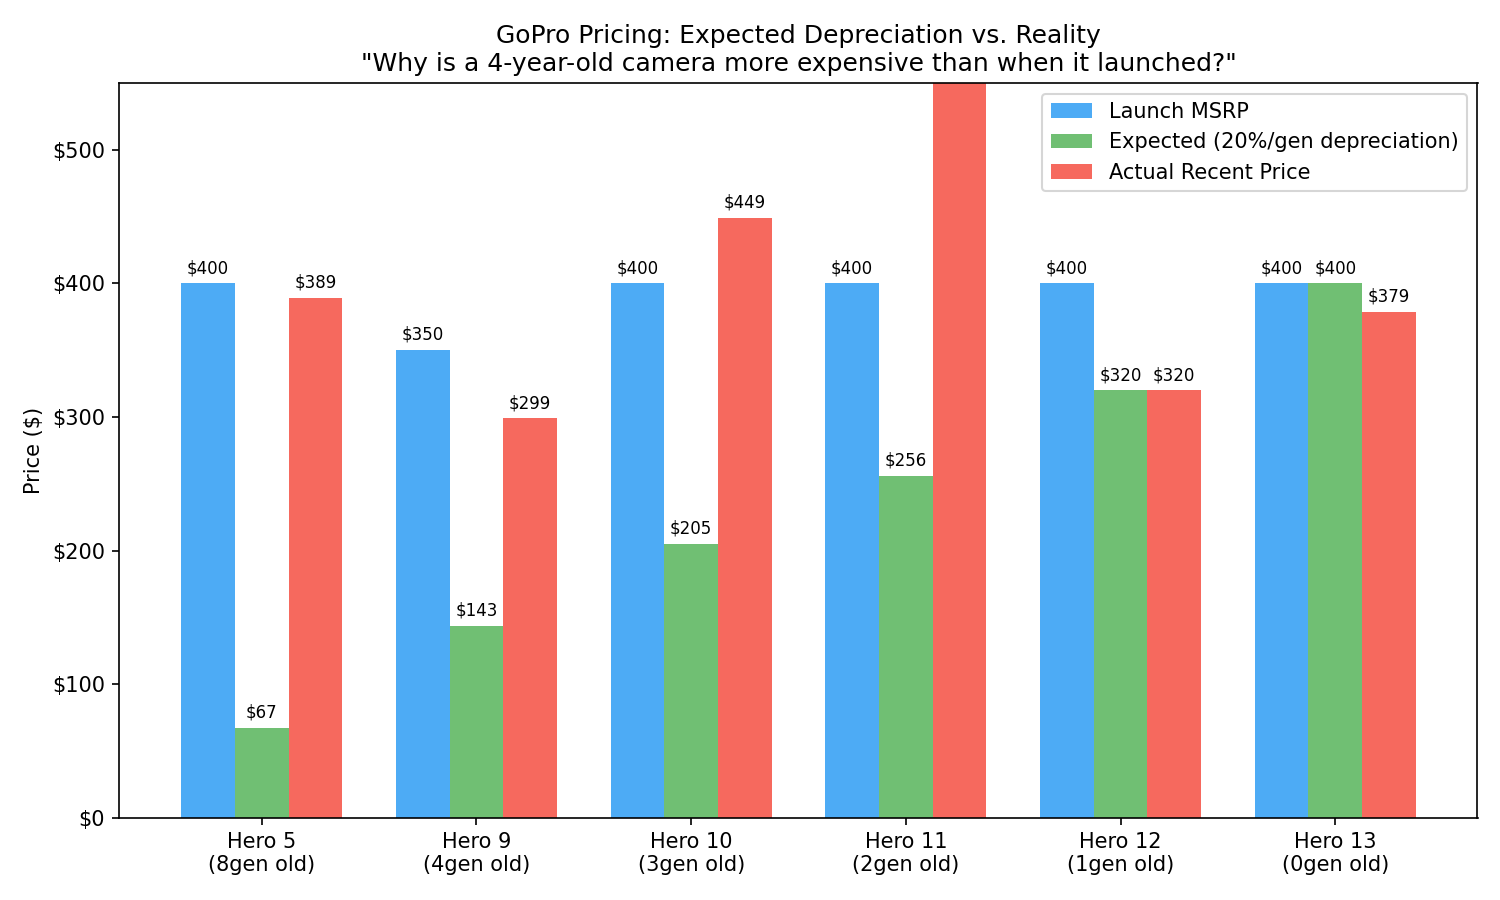
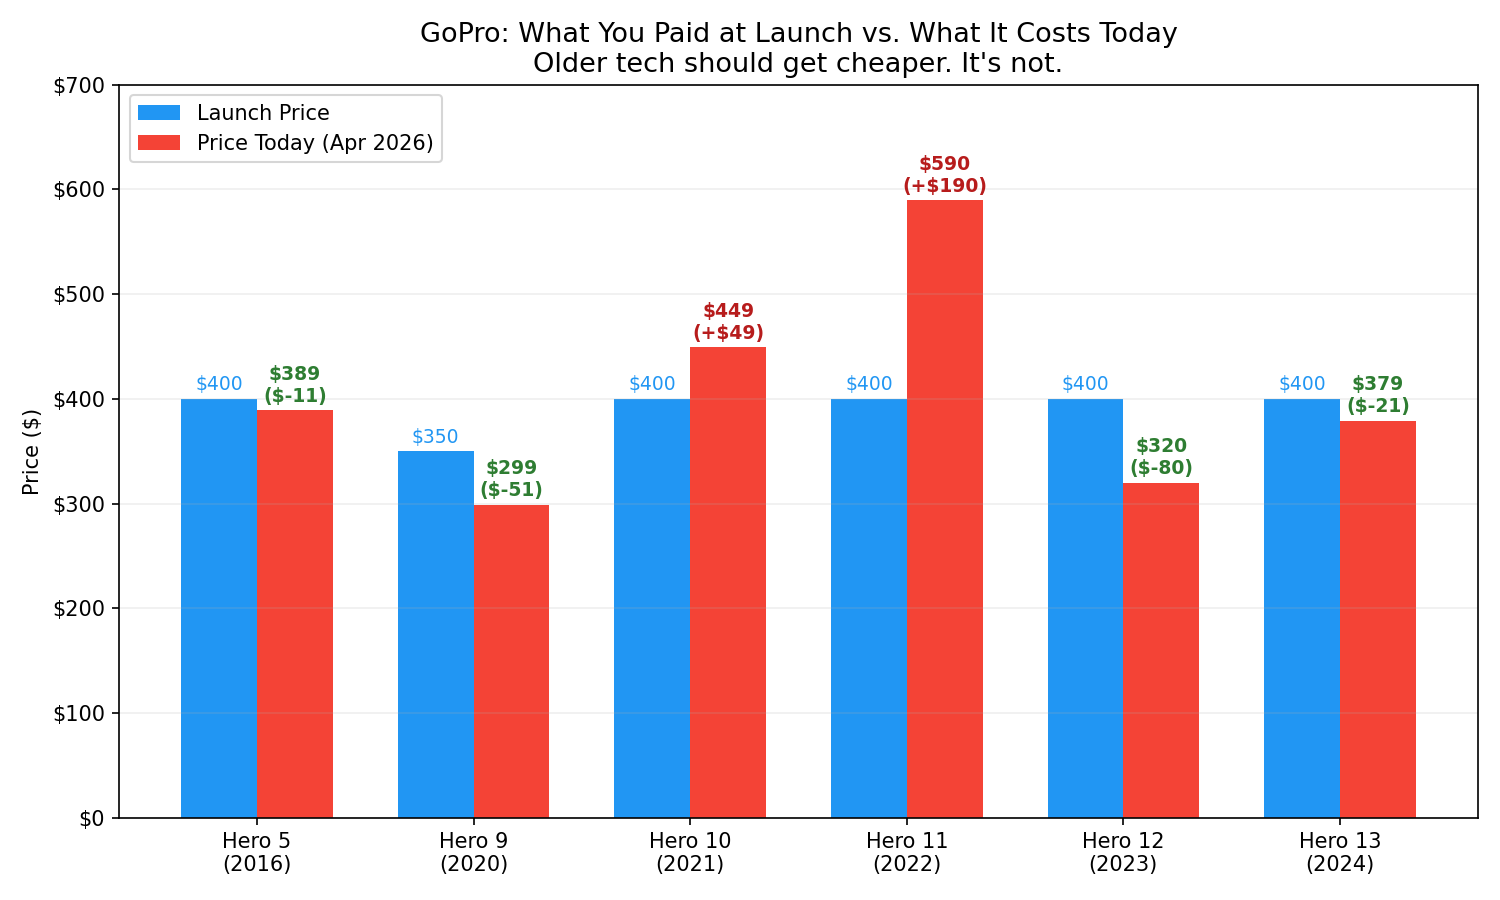
Simplified GoPro chart: launch price vs current price, no theoretical depreciation curve

diff --git a/scripts/gopro_pricing.py b/scripts/gopro_pricing.py
@@ -1,12 +1,9 @@
 #!/usr/bin/env python3
 """
-GoPro pricing analysis — test case for the corporate inflation hypothesis.
-
-Compares launch MSRP vs current/recent pricing across GoPro generations.
-In a normal tech market, older models get cheaper. If they get more expensive, something's wrong.
+GoPro pricing: launch price vs current price. That's it.
+Older tech should get cheaper. Is it?
 """
 
-import json
 import matplotlib.pyplot as plt
 import matplotlib.ticker as mticker
 from pathlib import Path
@@ -14,132 +11,49 @@ from pathlib import Path
 OUTPUT = Path(__file__).resolve().parent.parent / "output"
 OUTPUT.mkdir(exist_ok=True)
 
-# GoPro Hero pricing data — launch MSRP and observed recent prices
-# Sources: GoPro press releases, Smartprix/Amazon Apr 23 2026, CamelCamelCamel
-GOPRO_DATA = {
-    "Hero 5 Black": {
-        "launch_date": "Oct 2016",
-        "launch_msrp": 399.99,
-        "current_price": 389.00,  # Smartprix Apr 2026
-        "generation": 5,
-        "note": "10 years old, still selling near launch price",
-    },
-    "Hero 9 Black": {
-        "launch_date": "Sep 2020",
-        "launch_msrp": 349.99,
-        "current_price": 299.00,  # Smartprix Apr 2026
-        "generation": 9,
-    },
-    "Hero 10 Black": {
-        "launch_date": "Sep 2021",
-        "launch_msrp": 399.99,
-        "current_price": 449.24,  # CamelCamelCamel avg Amazon price (out of stock now)
-        "generation": 10,
-        "note": "John Finizio's original observation: $50 more than 18 months ago despite being 3-4 gens old. CCC avg Amazon price used (currently out of stock).",
-    },
-    "Hero 11 Black": {
-        "launch_date": "Sep 2022",
-        "launch_msrp": 399.99,
-        "current_price": 589.95,  # Smartprix Apr 2026
-        "generation": 11,
-        "note": "47% ABOVE launch price despite being 4 generations old",
-    },
-    "Hero 12 Black": {
-        "launch_date": "Sep 2023",
-        "launch_msrp": 399.99,
-        "current_price": 319.99,  # Smartprix Apr 2026
-        "generation": 12,
-    },
-    "Hero 13 Black": {
-        "launch_date": "Sep 2024",
-        "launch_msrp": 399.99,
-        "current_price": 379.00,  # Smartprix Apr 2026
-        "generation": 13,
-    },
-}
+# Real data: Smartprix Apr 23 2026, CamelCamelCamel
+models = [
+    ("Hero 5\n(2016)", 399.99, 389.00),
+    ("Hero 9\n(2020)", 349.99, 299.00),
+    ("Hero 10\n(2021)", 399.99, 449.24),
+    ("Hero 11\n(2022)", 399.99, 589.95),
+    ("Hero 12\n(2023)", 399.99, 319.99),
+    ("Hero 13\n(2024)", 399.99, 379.00),
+]
 
-# What SHOULD happen: older tech depreciates ~20-30% per generation
-# What IS happening: prices stay flat or increase on older models
+names = [m[0] for m in models]
+launch = [m[1] for m in models]
+current = [m[2] for m in models]
+diff = [c - l for l, c in zip(launch, current)]
 
-def expected_depreciation(launch_price, gens_old, rate=0.20):
-    """Normal tech depreciation: ~20% per generation."""
-    return launch_price * ((1 - rate) ** gens_old)
+fig, ax = plt.subplots(figsize=(10, 6))
+x = range(len(names))
+width = 0.35
 
+bars_launch = ax.bar([i - width/2 for i in x], launch, width, label="Launch Price", color="#2196F3")
+bars_current = ax.bar([i + width/2 for i in x], current, width, label="Price Today (Apr 2026)", color="#F44336")
 
-def main():
-    current_gen = 13
-    
-    print("=" * 70)
-    print("GoPro Pricing Analysis — Corporate Inflation Test Case")
-    print("=" * 70)
-    print()
-    print(f"{'Model':<20} {'Launch':<10} {'Expected':<12} {'Actual':<12} {'Delta':<10} {'Gens Old'}")
-    print("-" * 74)
-    
-    models = []
-    launch_prices = []
-    expected_prices = []
-    actual_prices = []
-    
-    for name, d in GOPRO_DATA.items():
-        gens_old = current_gen - d["generation"]
-        expected = expected_depreciation(d["launch_msrp"], gens_old)
-        
-        # Use best available actual price
-        actual = d.get("current_price") or d.get("camel_avg_amazon") or d.get("camel_avg_3p_new")
-        if actual is None:
-            continue
-            
-        delta = actual - expected
-        delta_pct = (delta / expected) * 100
-        
-        print(f"{name:<20} ${d['launch_msrp']:<8.2f} ${expected:<10.2f} ${actual:<10.2f} +${delta:<7.2f} {gens_old}")
-        
-        models.append(f"Hero {d['generation']}\n({gens_old}gen old)")
-        launch_prices.append(d["launch_msrp"])
-        expected_prices.append(expected)
-        actual_prices.append(actual)
-    
-    print()
-    print("Expected = launch MSRP depreciated 20% per generation (normal tech curve)")
-    print("Actual = current/recent observed price")
-    print("Delta = how much MORE you're paying than you should be")
-    
-    # Build chart
-    fig, ax = plt.subplots(figsize=(10, 6))
-    x = range(len(models))
-    width = 0.25
-    
-    bars1 = ax.bar([i - width for i in x], launch_prices, width, label="Launch MSRP", color="#2196F3", alpha=0.8)
-    bars2 = ax.bar(x, expected_prices, width, label="Expected (20%/gen depreciation)", color="#4CAF50", alpha=0.8)
-    bars3 = ax.bar([i + width for i in x], actual_prices, width, label="Actual Recent Price", color="#F44336", alpha=0.8)
-    
-    ax.set_ylabel("Price ($)")
-    ax.set_title("GoPro Pricing: Expected Depreciation vs. Reality\n\"Why is a 4-year-old camera more expensive than when it launched?\"")
-    ax.set_xticks(x)
-    ax.set_xticklabels(models)
-    ax.legend()
-    ax.yaxis.set_major_formatter(mticker.FormatStrFormatter("$%.0f"))
-    ax.set_ylim(0, 550)
-    
-    # Add value labels on bars
-    for bars in [bars1, bars2, bars3]:
-        for bar in bars:
-            height = bar.get_height()
-            ax.annotate(f"${height:.0f}", xy=(bar.get_x() + bar.get_width() / 2, height),
-                       xytext=(0, 3), textcoords="offset points", ha="center", va="bottom", fontsize=8)
-    
-    plt.tight_layout()
-    out_path = OUTPUT / "gopro_pricing.png"
-    plt.savefig(out_path, dpi=150)
-    print(f"\n📊 Chart saved to {out_path}")
-    
-    # Save data
-    data_path = OUTPUT / "gopro_pricing.json"
-    with open(data_path, "w") as f:
-        json.dump(GOPRO_DATA, f, indent=2)
-    print(f"💾 Data saved to {data_path}")
+# Add labels
+for bar in bars_launch:
+    ax.text(bar.get_x() + bar.get_width()/2, bar.get_height() + 8,
+            f"${bar.get_height():.0f}", ha="center", fontsize=9, color="#2196F3")
+for i, bar in enumerate(bars_current):
+    color = "#B71C1C" if diff[i] > 0 else "#2E7D32"
+    sign = "+" if diff[i] > 0 else ""
+    ax.text(bar.get_x() + bar.get_width()/2, bar.get_height() + 8,
+            f"${bar.get_height():.0f}\n({sign}${diff[i]:.0f})", ha="center", fontsize=9,
+            color=color, fontweight="bold")
 
+ax.set_ylabel("Price ($)")
+ax.set_title("GoPro: What You Paid at Launch vs. What It Costs Today\nOlder tech should get cheaper. It's not.", fontsize=13)
+ax.set_xticks(x)
+ax.set_xticklabels(names)
+ax.legend(loc="upper left")
+ax.set_ylim(0, 700)
+ax.yaxis.set_major_formatter(mticker.FormatStrFormatter("$%.0f"))
+ax.grid(axis="y", alpha=0.2)
 
-if __name__ == "__main__":
-    main()
+plt.tight_layout()
+out = OUTPUT / "gopro_pricing.png"
+plt.savefig(out, dpi=150)
+print(f"📊 Saved to {out}")
